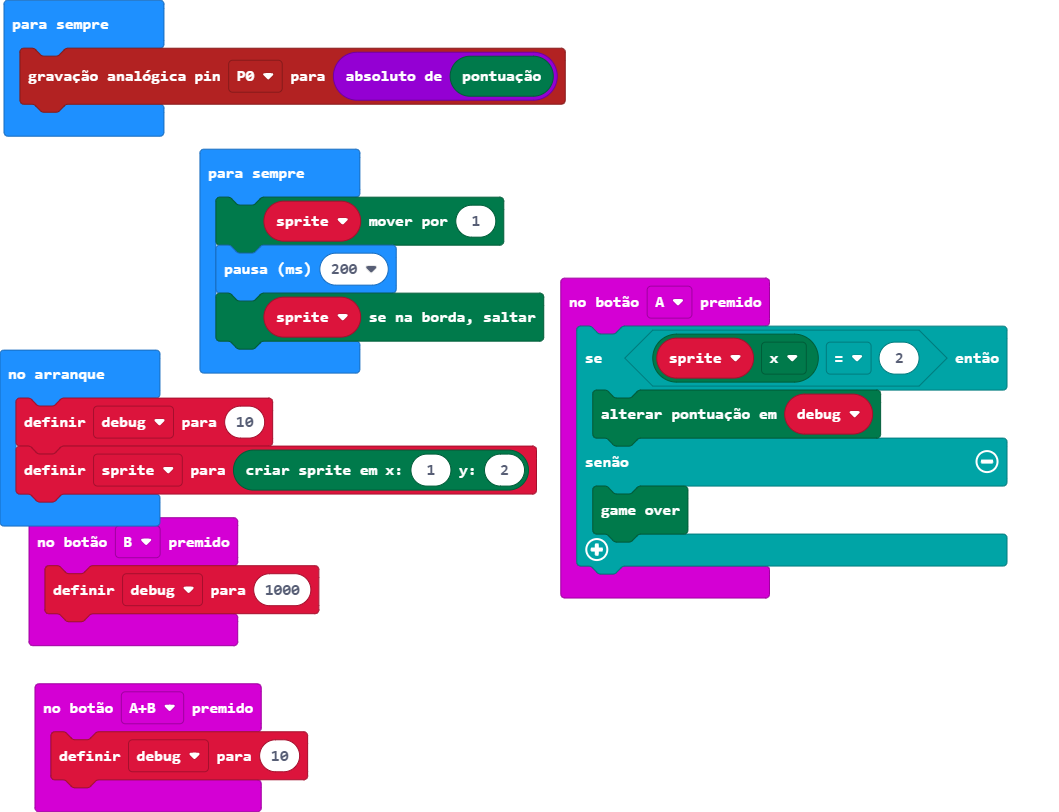
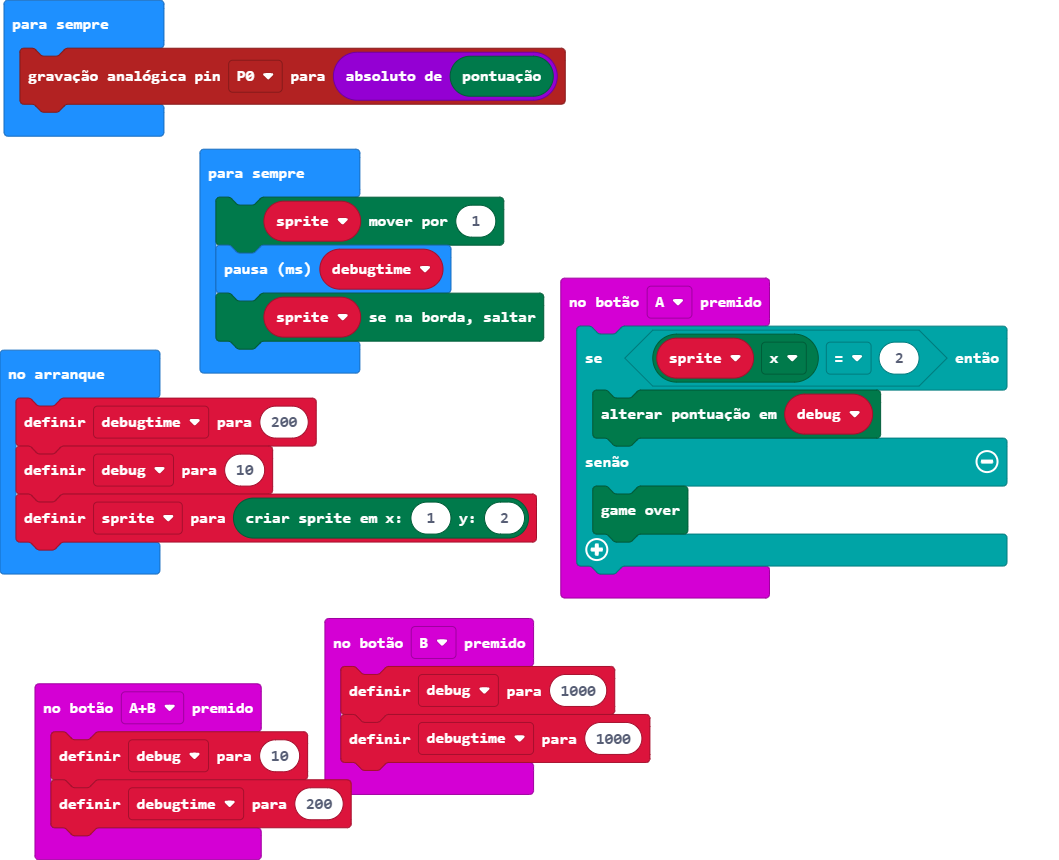
added more stuff to the debug mode

diff --git a/main.ts b/main.ts
@@ -7,12 +7,16 @@ input.onButtonPressed(Button.A, function () {
 })
 input.onButtonPressed(Button.AB, function () {
     debug = 10
+    debugtime = 200
 })
 input.onButtonPressed(Button.B, function () {
     debug = 1000
+    debugtime = 1000
 })
 let sprite: game.LedSprite = null
 let debug = 0
+let debugtime = 0
+debugtime = 200
 debug = 10
 sprite = game.createSprite(1, 2)
 basic.forever(function () {
@@ -20,6 +24,6 @@ basic.forever(function () {
 })
 basic.forever(function () {
     sprite.move(1)
-    basic.pause(200)
+    basic.pause(debugtime)
     sprite.ifOnEdgeBounce()
 })
